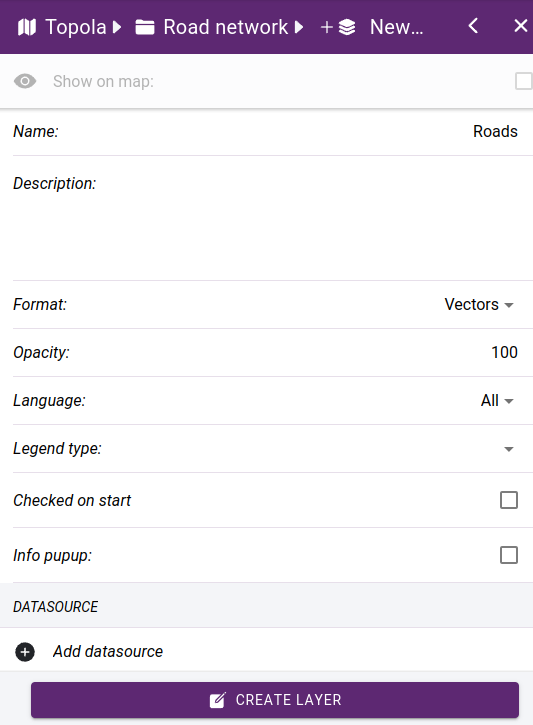
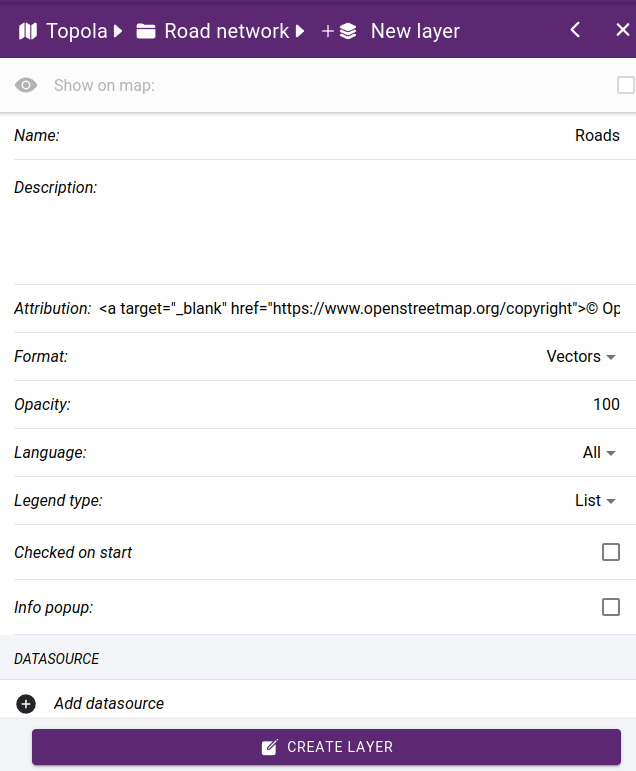
update: attribution related changes

diff --git a/docs/source/map_create.rst b/docs/source/map_create.rst
@@ -17,6 +17,7 @@ To create a new map, click on **+** in the bottom right corner of the :ref:`proj
 
 * **Name** - project's name
 * Description - optional description text
+* Attribution - optional, when available, it is displayed as copyright text for the map. Additional copyrights may be added if layers/datasources have their own.
 * **Visibility** - access rights to the project: **Everyone can access**, **Logged in users only**, **Selected user groups only**. If you choose to allow certain user groups to see the project, a new line will open where you can select the groups.
 * Projection - fixed EPSG:4326, due to limitations in the software library that displays the map (MapLibre GL JS)
 * **Point cloud projection** - all pointclouds for a project must be in the same projection.

diff --git a/docs/source/map_layer.rst b/docs/source/map_layer.rst
@@ -9,6 +9,7 @@ When creating a new layer, the basic settings and selection of the data source a
 
 * **Name** - layer name
 * **Description** - optional description
+* **Attribution** - optional, when available, it is displayed as copyright text.
 * **Format** - rendering formats:
     * Vector (single file)
     * Vector tiles
@@ -25,7 +26,7 @@ When creating a new layer, the basic settings and selection of the data source a
 
 .. figure:: images/map_layer_params.png
     :align: center
-    :width: 13cm
+    :width: 15cm
 
     Basic settings
 

diff --git a/docs/source/datasources.rst b/docs/source/datasources.rst
@@ -119,6 +119,7 @@ To create a new folder, click the **+** icon in the bottom right corner and sele
 
 * **Name** - datasource name
 * Description - optional description
+* Attribution - optional copyright text for XYZ datasources and WMS connections. If the copyright text is available, it will be displayed on maps where the data source is in use.
 * **Type** - importing files or content of a folder
 * **Format** spatial format
 * **Basemap** - whether it should be available as a basemap
